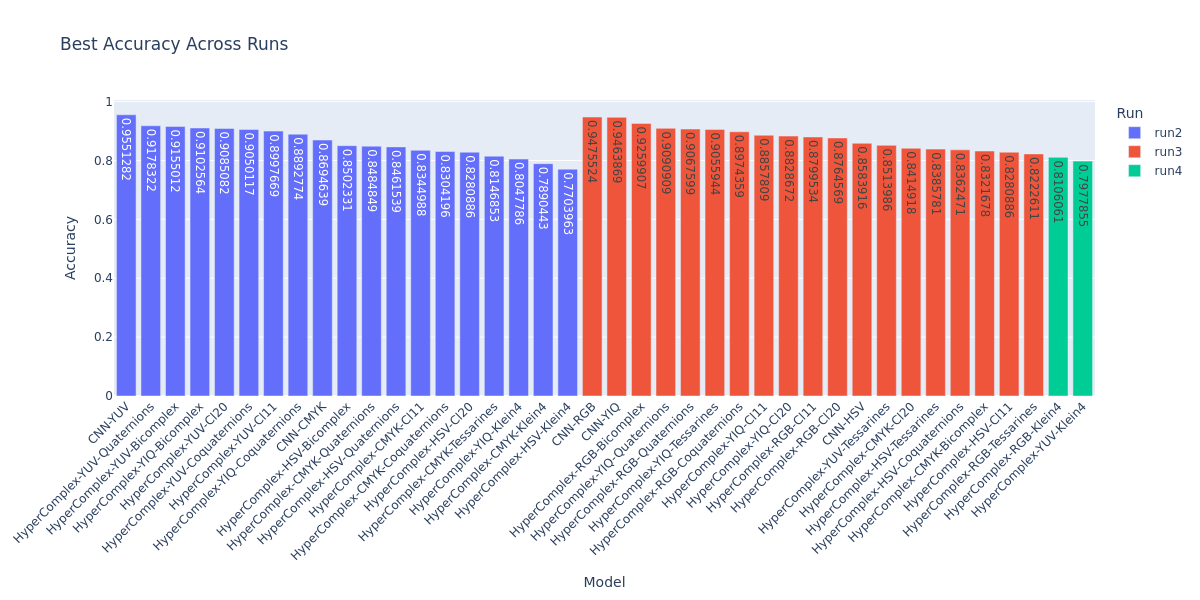
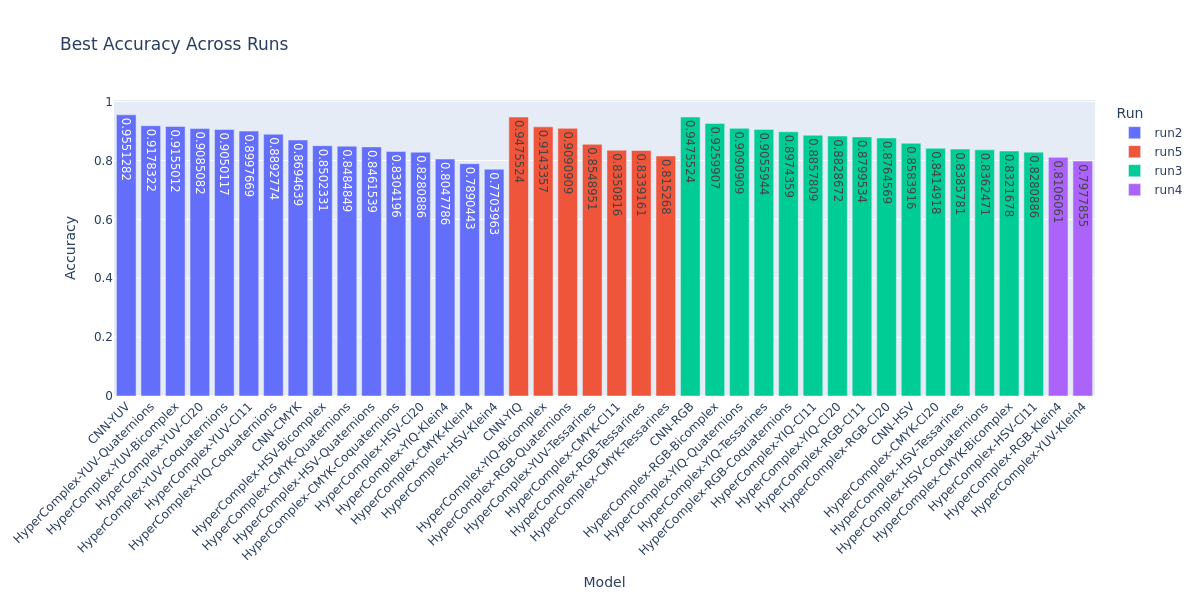
Run5 results

Changed region(s): [[0.0617, 0.18, 0.9867, 0.93]]

diff --git a/analysis/MultiRunAnalysis.py b/analysis/MultiRunAnalysis.py
@@ -3,7 +3,7 @@ import plotly.express as plt_exp
 import pandas as pd
 
 # ------------------- Static parameters -------------------
-runs = ["run1", "run2", "run3", "run4"]
+runs = ["run1", "run2", "run3", "run4", "run5"]
 json_result_file = "training.json"
 
 
